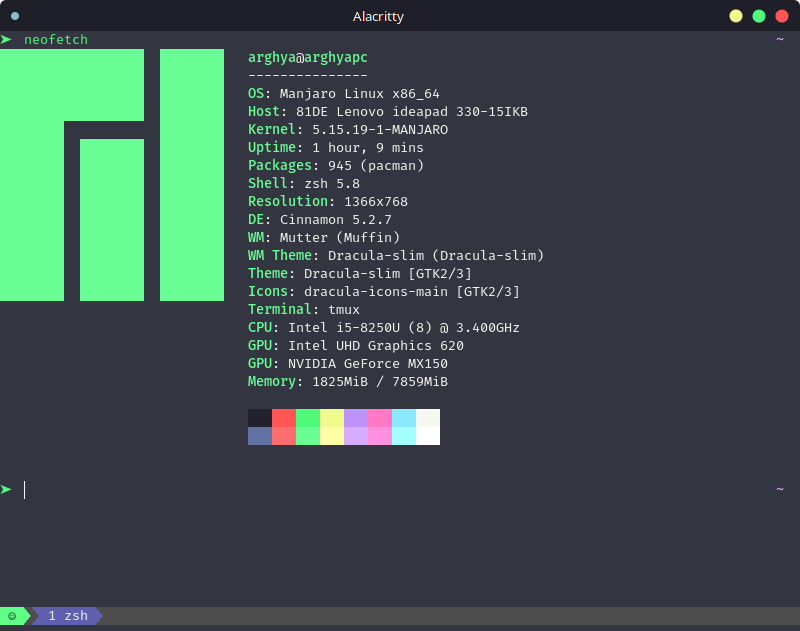
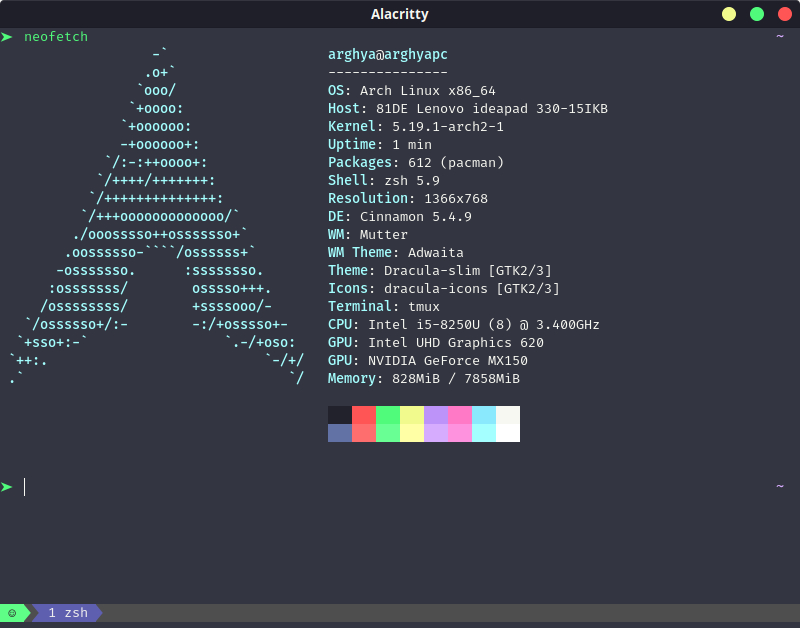
updating stuff

diff --git a/content/homelab.md b/content/homelab.md
@@ -1,6 +1,6 @@
 ---
 title: HomeLab
-date: 2021-12-01
+date: 2022-08-16
 ---
 
 # My Rig
@@ -8,11 +8,12 @@ date: 2021-12-01
 **Lenovo Ideapad 330-15IKB:**\
 &nbsp;&nbsp;Processor &nbsp;&nbsp;&nbsp;&nbsp;: Intel i5-8250U\
 &nbsp;&nbsp;Memory &nbsp;&nbsp;&nbsp;&nbsp;&nbsp;&nbsp;&nbsp;: 8GB\
+&nbsp;&nbsp;SSD &nbsp;&nbsp;&nbsp;&nbsp;&nbsp;&nbsp;&nbsp;&nbsp;&nbsp;&nbsp;: 480GB\
 &nbsp;&nbsp;Hard Disk &nbsp;&nbsp;&nbsp;&nbsp;: 1TB\
 &nbsp;&nbsp;Graphics Card : 2GB NVIDIA GeForce MX150
 
 **Peripherals:**\
-&nbsp;&nbsp;Mouse &nbsp;&nbsp;&nbsp;&nbsp;: Redgear A-20\
+&nbsp;&nbsp;Mouse &nbsp;&nbsp;&nbsp;&nbsp;: Logitech G304\
 &nbsp;&nbsp;Keyboard &nbsp;: Royal Kludge RKG68\
 &nbsp;&nbsp;Headphone : HyperX Cloud Core 7.1
 
@@ -20,10 +21,9 @@ date: 2021-12-01
 
 # My Desktop
 
-- Dual Boot : Manjaro Cinnamon + Windows 10 (only for gaming)
+- Dual Boot : Arch Linux (Cinnamon DE) + Windows 10 (for games)
+- IDE &nbsp;&nbsp;&nbsp;&nbsp;&nbsp;&nbsp;: Visual Studio Code
 - Terminal &nbsp;: Alacritty + tmux + zsh
-- IDE &nbsp;&nbsp;&nbsp;&nbsp;&nbsp;&nbsp;: VSCode
-- Browser &nbsp;&nbsp;: Vivaldi
 - Theme &nbsp;&nbsp;&nbsp;&nbsp;: Dracula
 
 ![My Sleek Desktop](/img/hlab-desktop.png "My Desktop")
